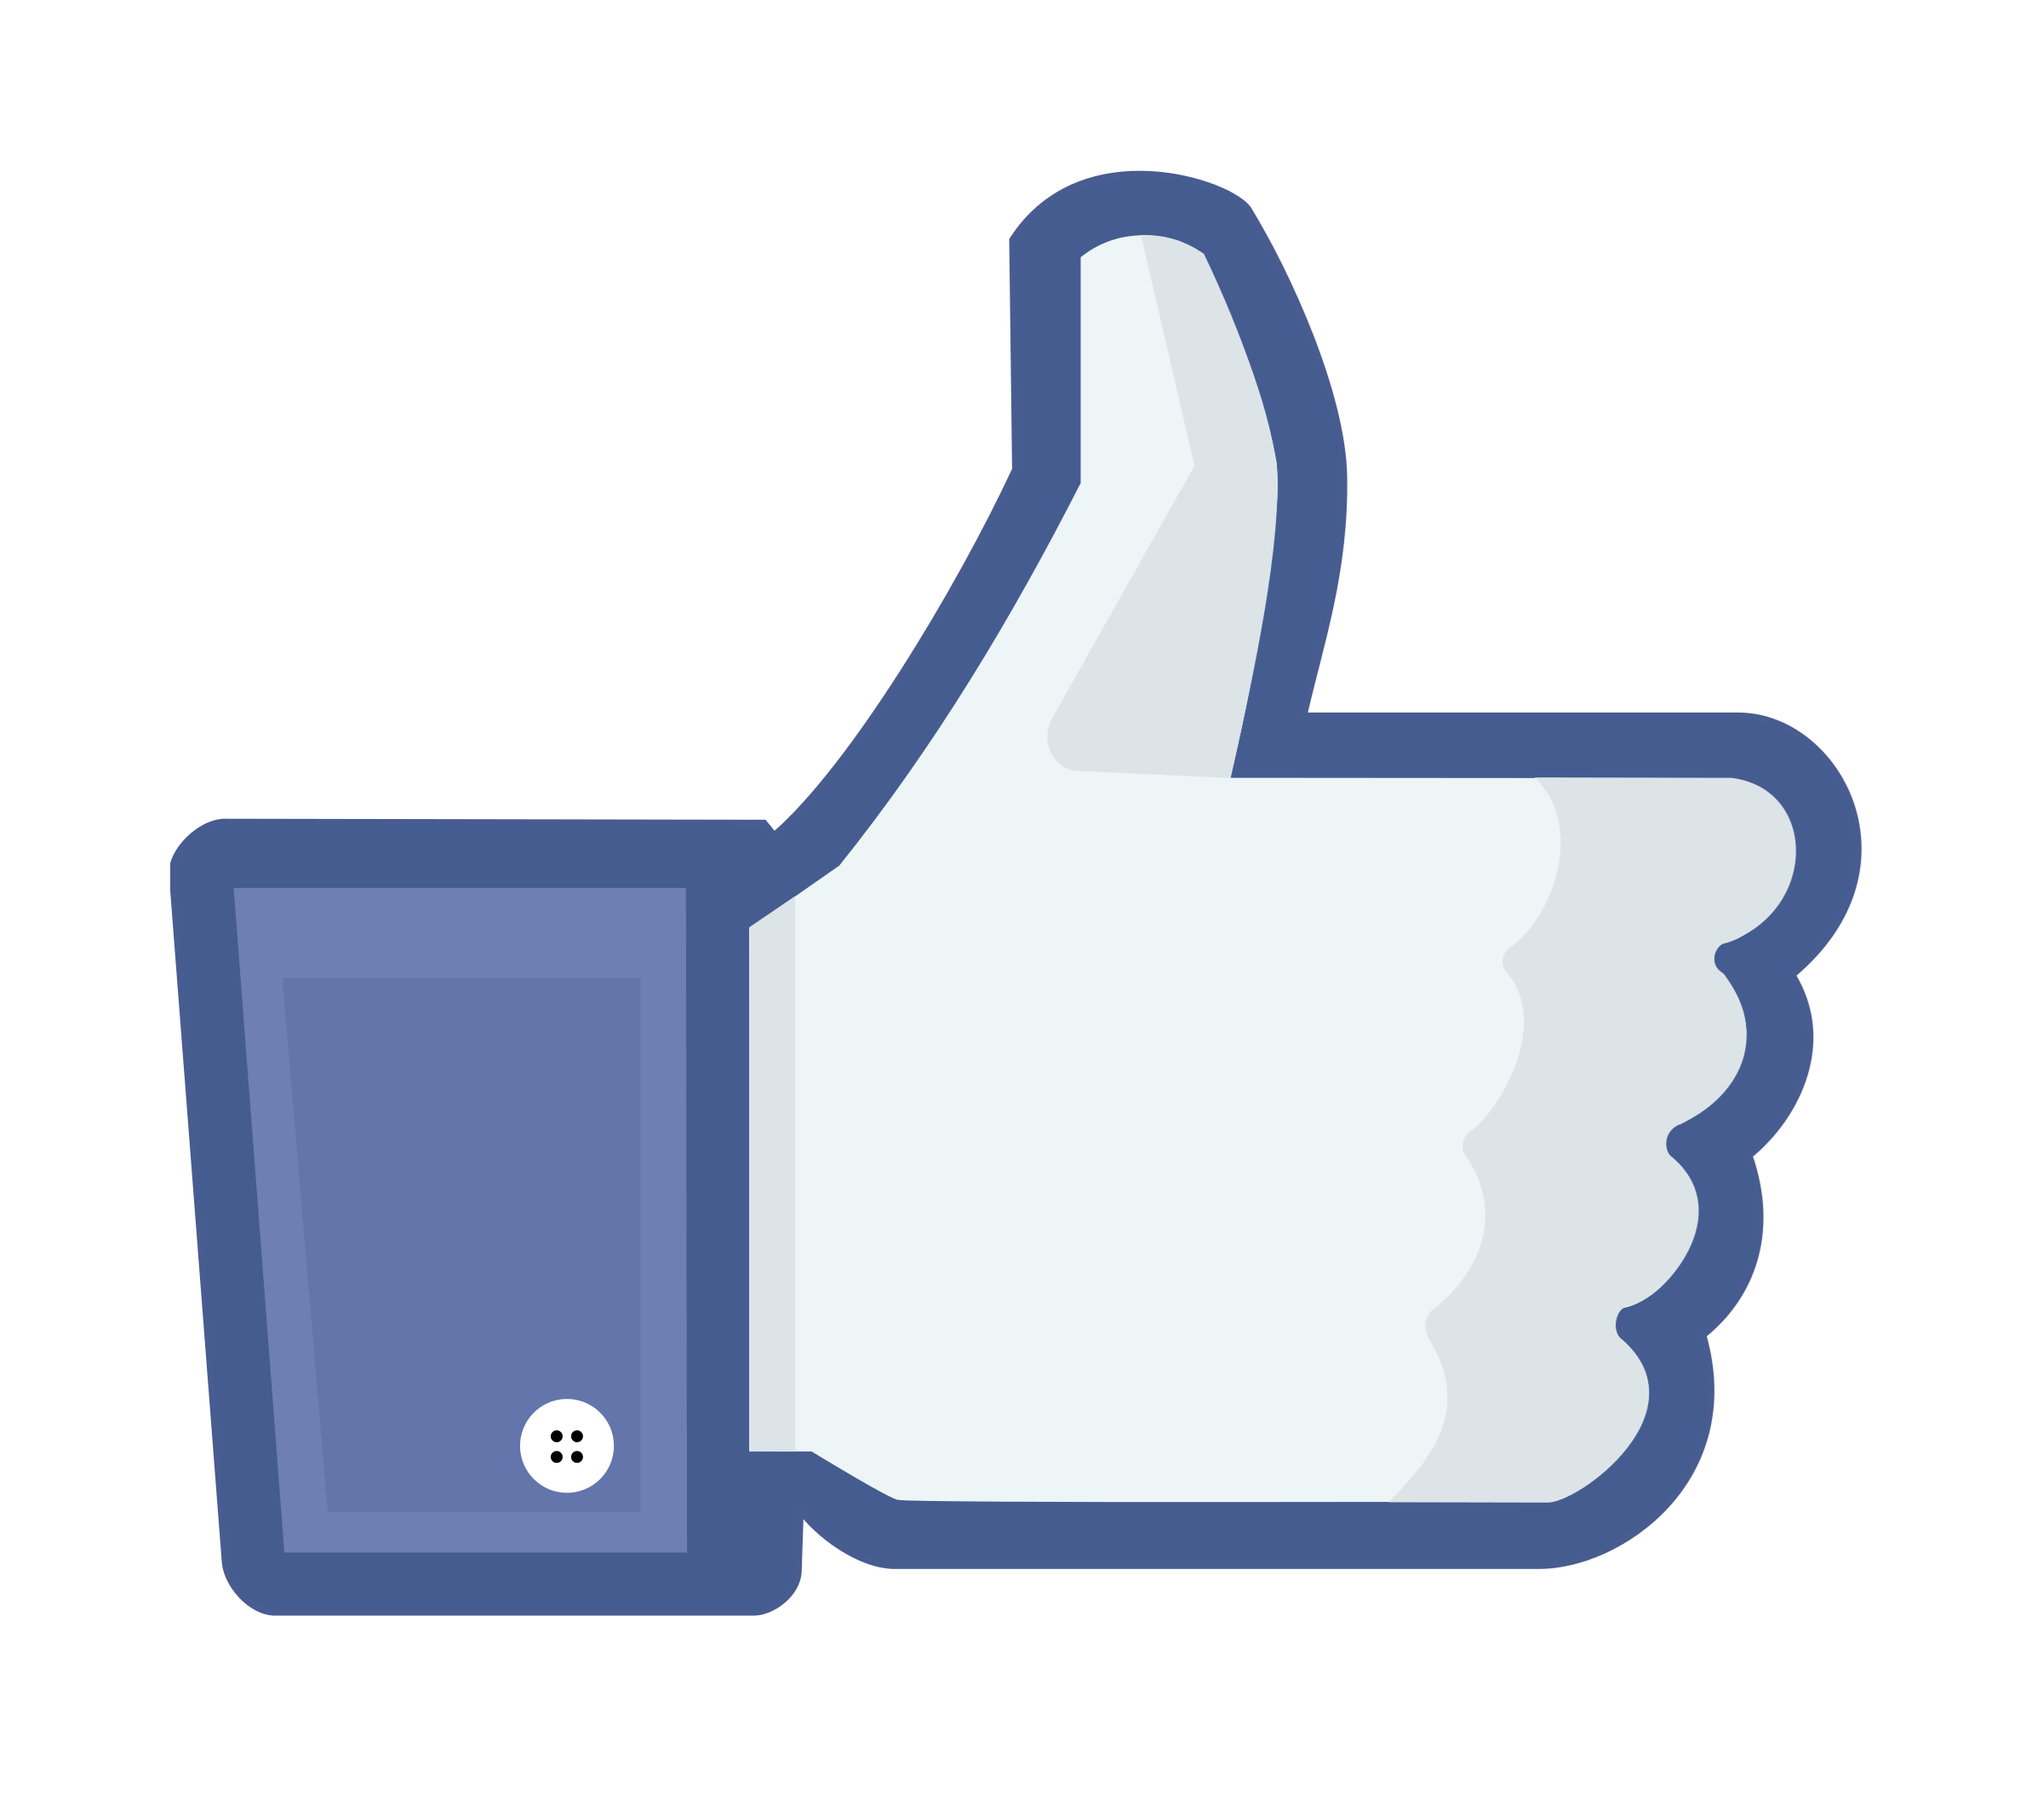
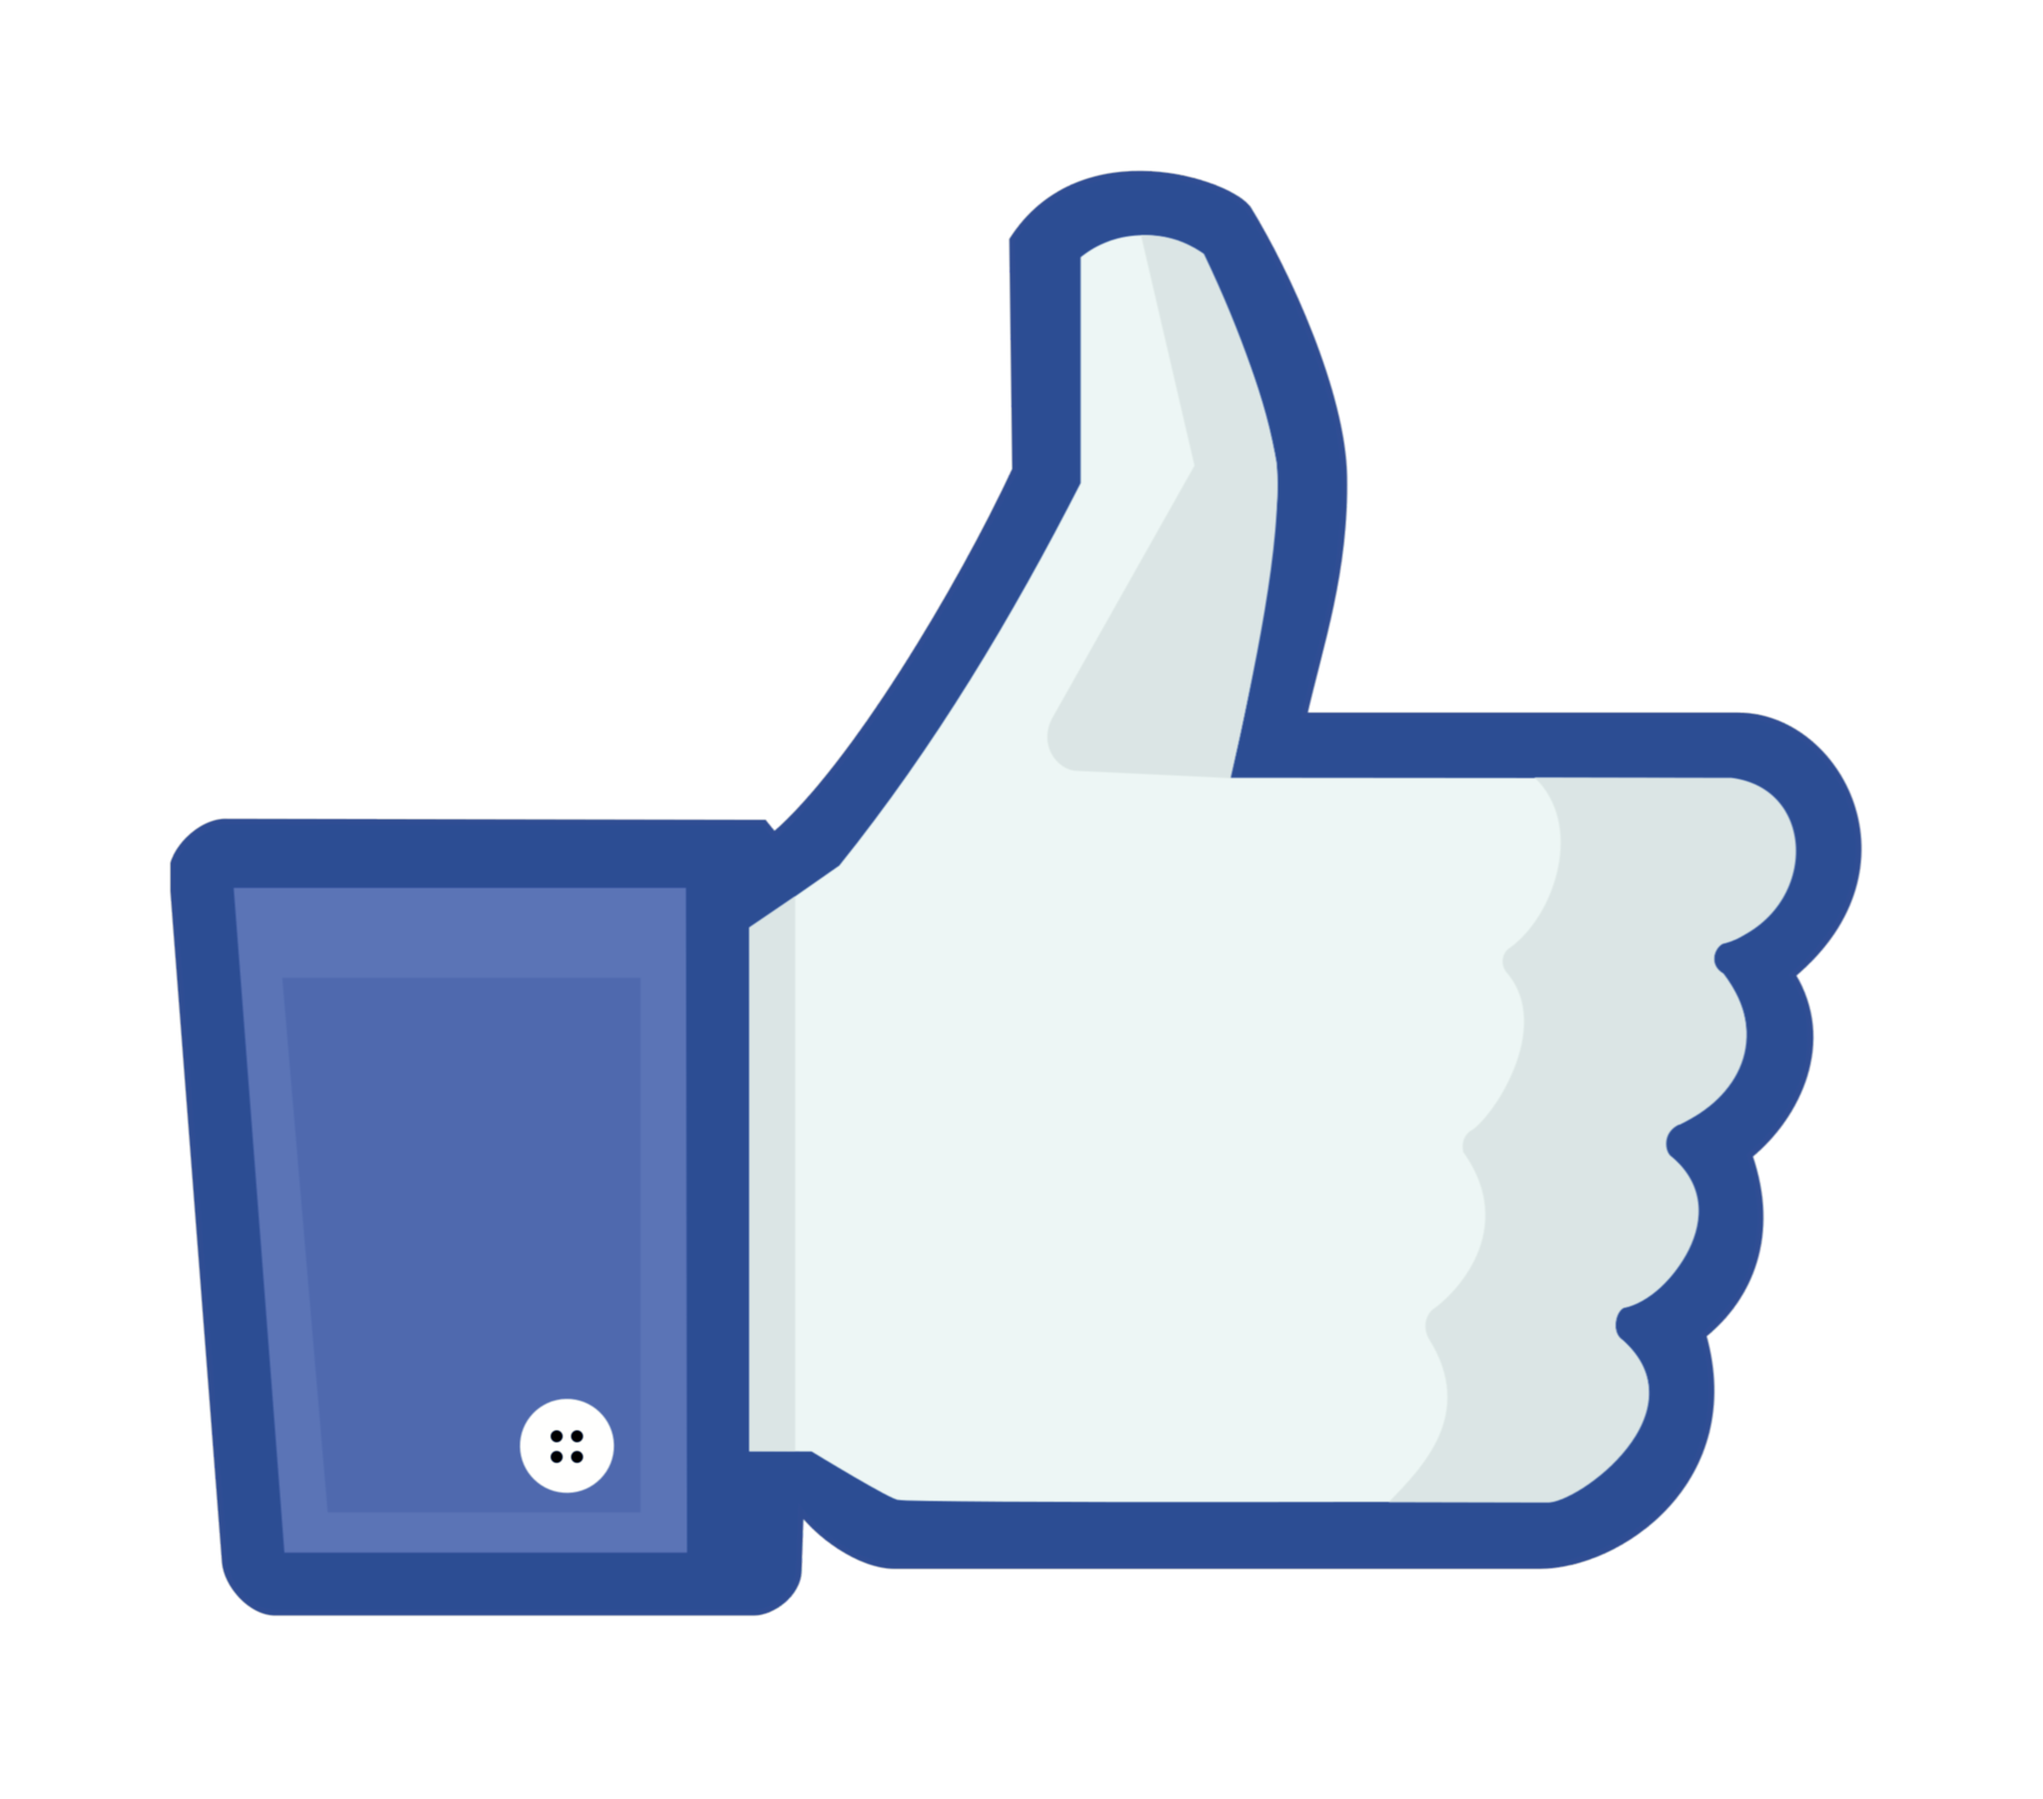
調整like dislike favorite圖片

Changed region(s): [[0.0625, 0.0937, 0.9062, 0.9058]]

diff --git a/resources/views/mooc/singleClass.blade.php b/resources/views/mooc/singleClass.blade.php
@@ -80,16 +80,16 @@
                 success: function(response){                    
                     switch (response.data.prefer) {
                     case "like":
-                        $("#like_img").attr("src", "{{ asset('images/like3.png') }}");
-                        $("#dislike_img").attr("src", "{{ asset('images/like2.png') }}");
+                        $("#like_img").attr("src", "{{ asset('images/like2.png') }}");
+                        $("#dislike_img").attr("src", "{{ asset('images/dislike1.png') }}");
                         break;
                     case "dislike":
-                        $("#like_img").attr("src", "{{ asset('images/like2.png') }}");
-                        $("#dislike_img").attr("src", "{{ asset('images/like3.png') }}");
+                        $("#like_img").attr("src", "{{ asset('images/dislike2.png') }}");
+                        $("#dislike_img").attr("src", "{{ asset('images/like1.png') }}");
                         break;
                     default:
-                        $("#like_img").attr("src", "{{ asset('images/like2.png') }}");
-                        $("#dislike_img").attr("src", "{{ asset('images/like2.png') }}");
+                        $("#like_img").attr("src", "{{ asset('images/like1.png') }}");
+                        $("#dislike_img").attr("src", "{{ asset('images/like1.png') }}");
                         break;
                     }
                     $("#like_count").text(response.data.likeCount);
@@ -110,7 +110,7 @@
             data: {"_token": "{{ csrf_token() }}", "classId": "{{ $classes->classId }}"},
             success:function(response) {
                 if (response.data.favorite) {
-                    $("#love_img").attr("src", "{{ asset('images/like2.png') }}");
+                    $("#love_img").attr("src", "{{ asset('images/love2.png') }}");
                 }
             }
         });
@@ -123,9 +123,9 @@
                 data: {"_token": "{{ csrf_token() }}", "classId": "{{ $classes->classId }}"},
                 success: function(response){
                     if (response.data.favorite) {
-                        $("#love_img").attr("src", "{{ asset('images/like2.png') }}");
+                        $("#love_img").attr("src", "{{ asset('images/love2.png') }}");
                     } else {
-                        $("#love_img").attr("src", "{{ asset('images/love.png') }}");
+                        $("#love_img").attr("src", "{{ asset('images/love1.png') }}");
                     }
                 },
                 error: function(response){
@@ -154,9 +154,9 @@
             <!-- 讚按鈕 -->
             <table class="mx-auto">
                 <tr>
-                    <td class="text-center"><img id="like_img" class="like" src="{{ asset('images/like2.png') }}" alt="like"></td>
-                    <td class="text-center"><img id="dislike_img" class="like" src="{{ asset('images/like2.png') }}" alt="dislike"></td>
-                    <td class="text-center"><img id="love_img" class="love" src="{{ asset('images/love.png') }}" alt="love"></td>
+                    <td class="text-center"><img id="like_img" class="like" src="{{ asset('images/like1.png') }}" alt="like"></td>
+                    <td class="text-center"><img id="dislike_img" class="like" src="{{ asset('images/dislike1.png') }}" alt="dislike"></td>
+                    <td class="text-center"><img id="love_img" class="love" src="{{ asset('images/love1.png') }}" alt="love"></td>
                 </tr>
                 <tr>
                     <td class="text-center"><p id="like_count"></p></td>
